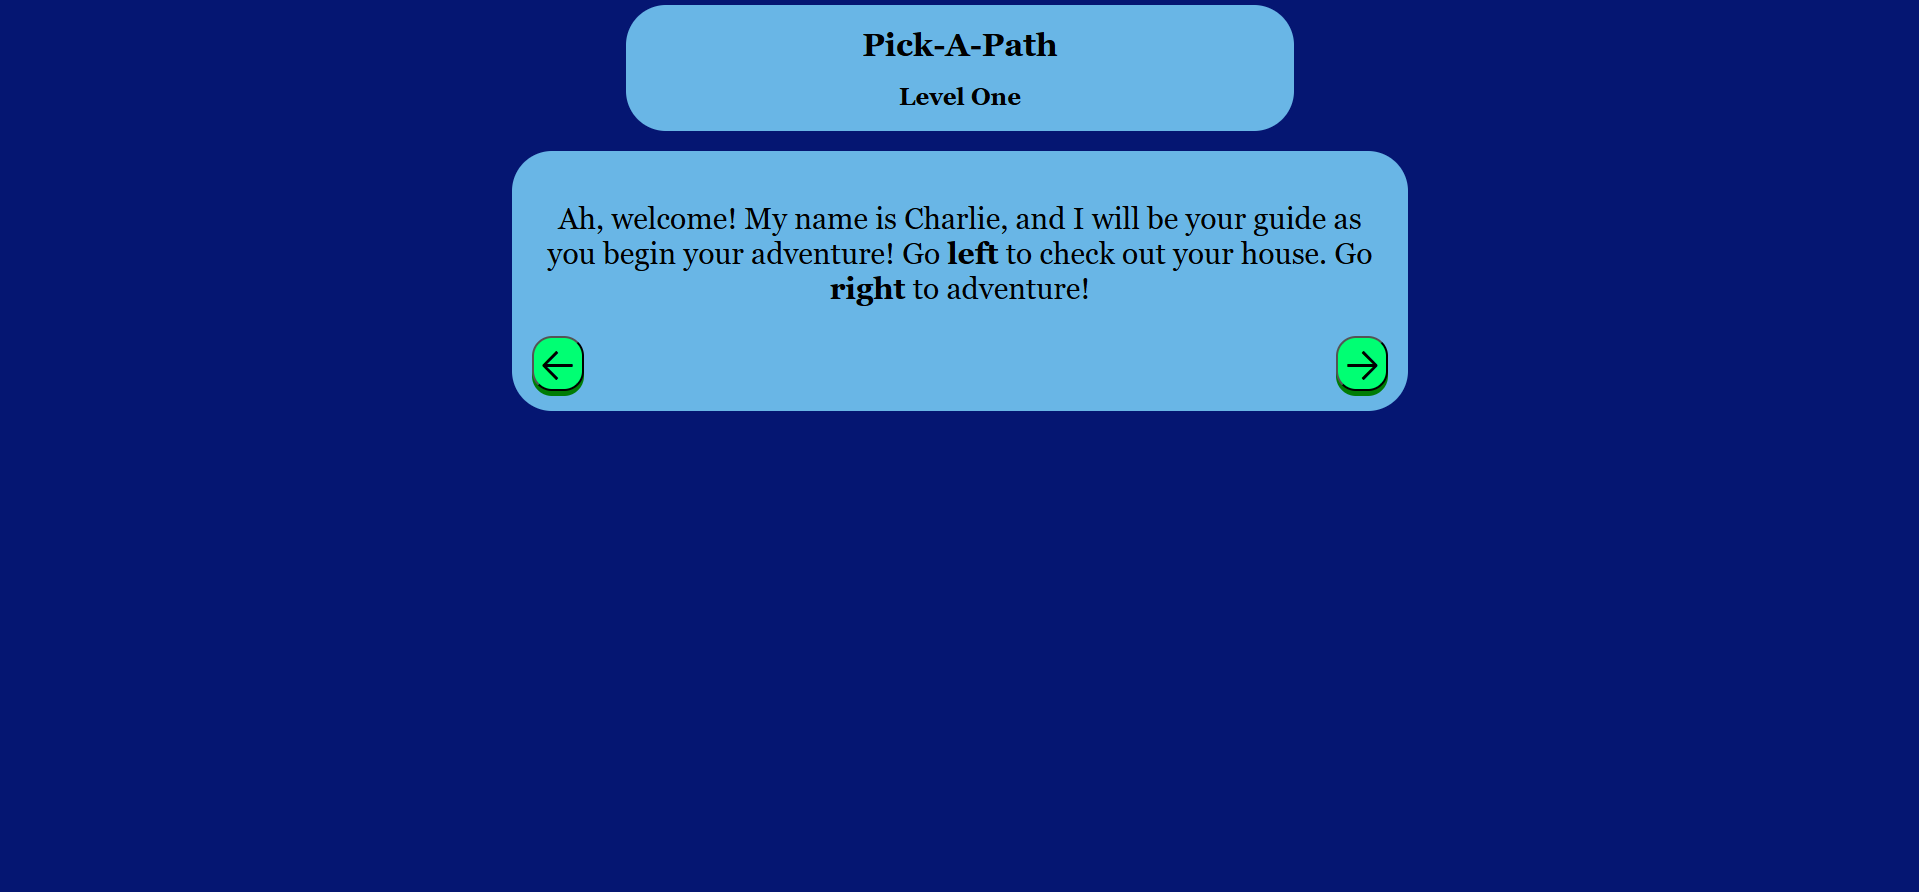
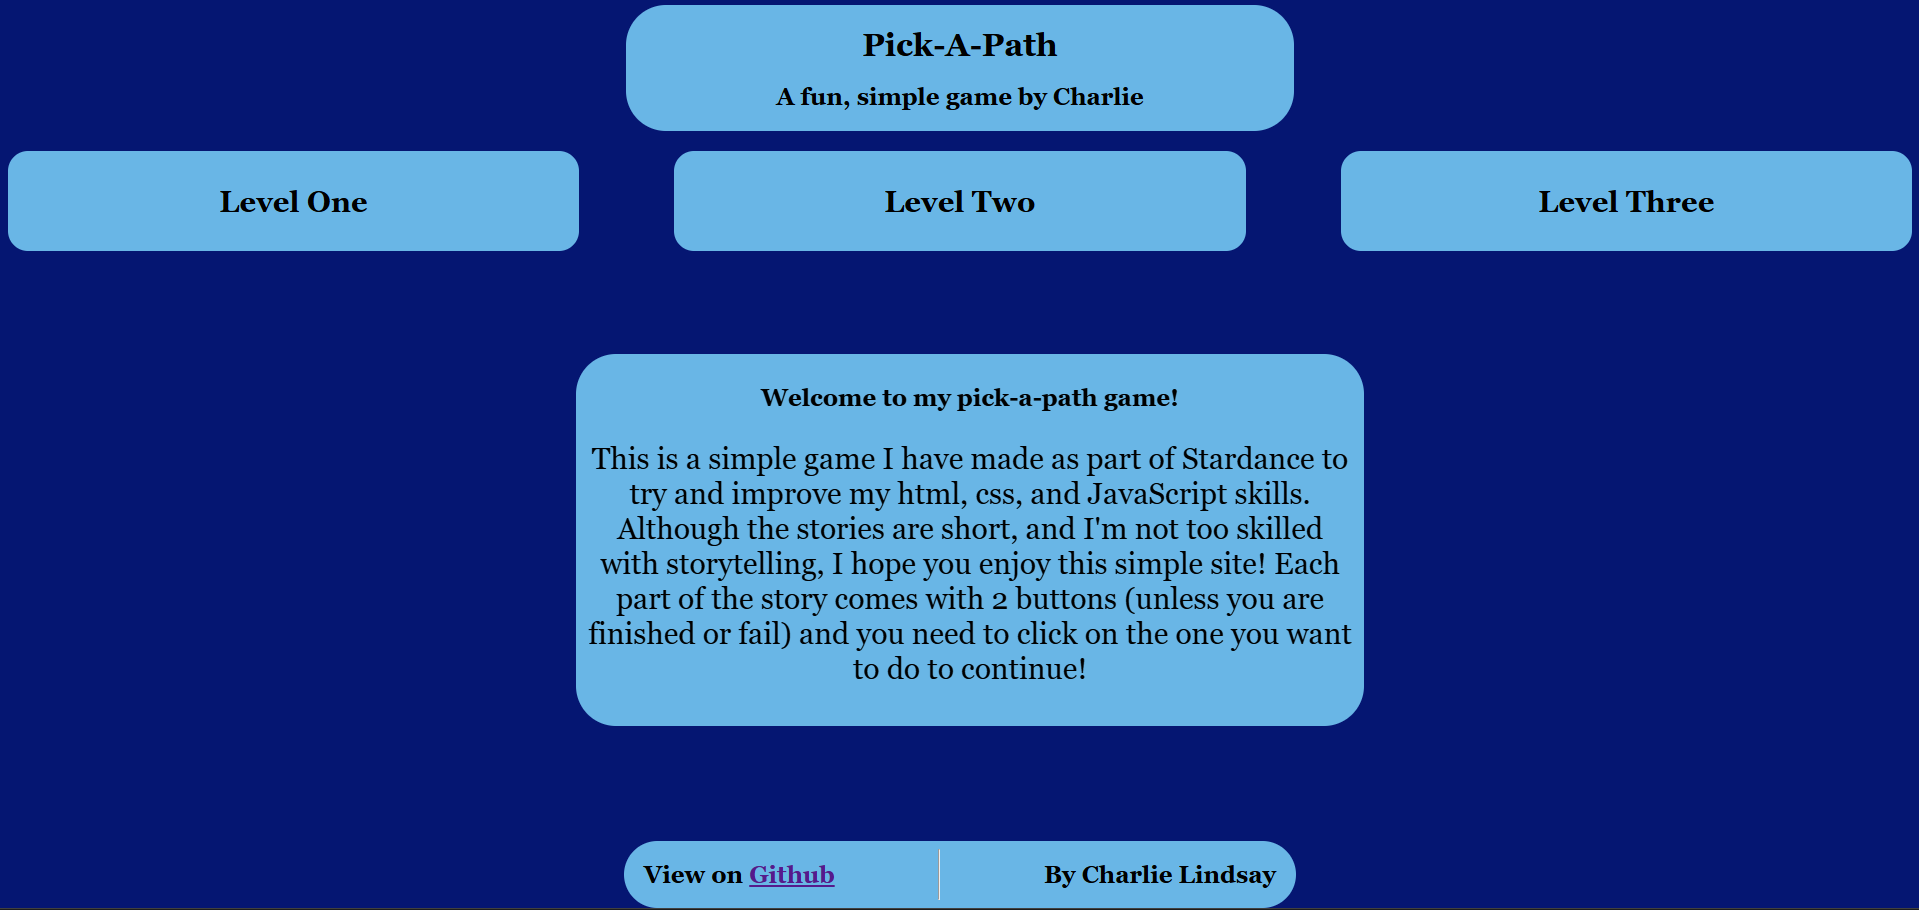
image changed

diff --git a/README.md b/README.md
@@ -1,7 +1,7 @@
 # Pick-A-Path
 A fun story game by Charlie based in a website
 
-![Image of Level One](https://pickapath.charleilei.dpdns.org/images/Screenshot)
+![Image of Level One](https://pickapath.charleilei.dpdns.org/images/Screenshot.png)
 
 ## Contains
 - Three small, fun levels